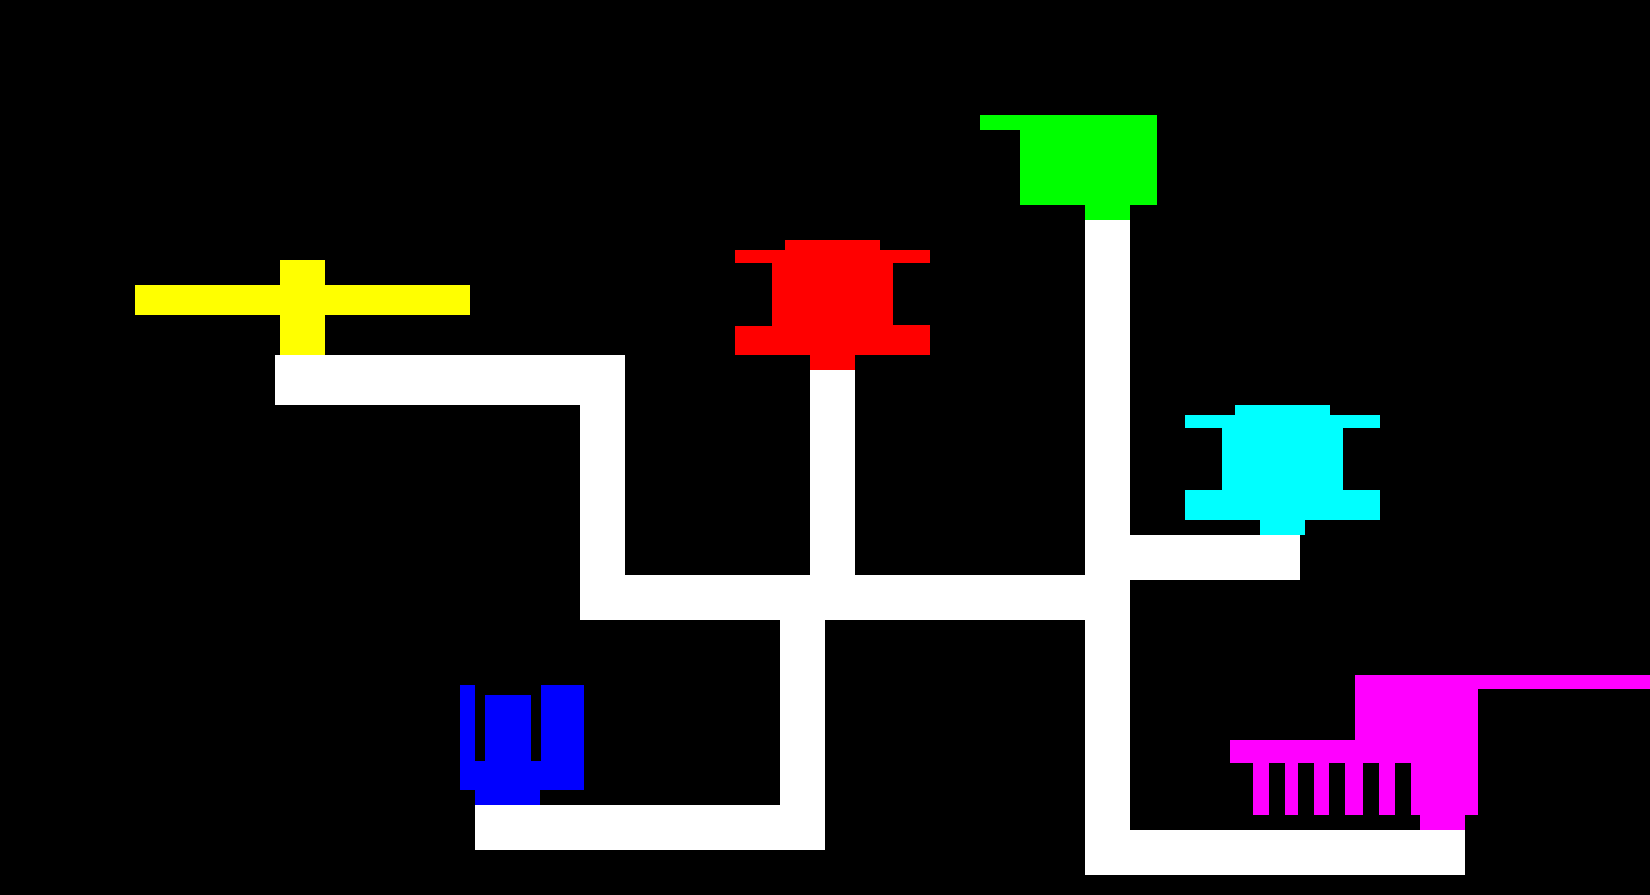
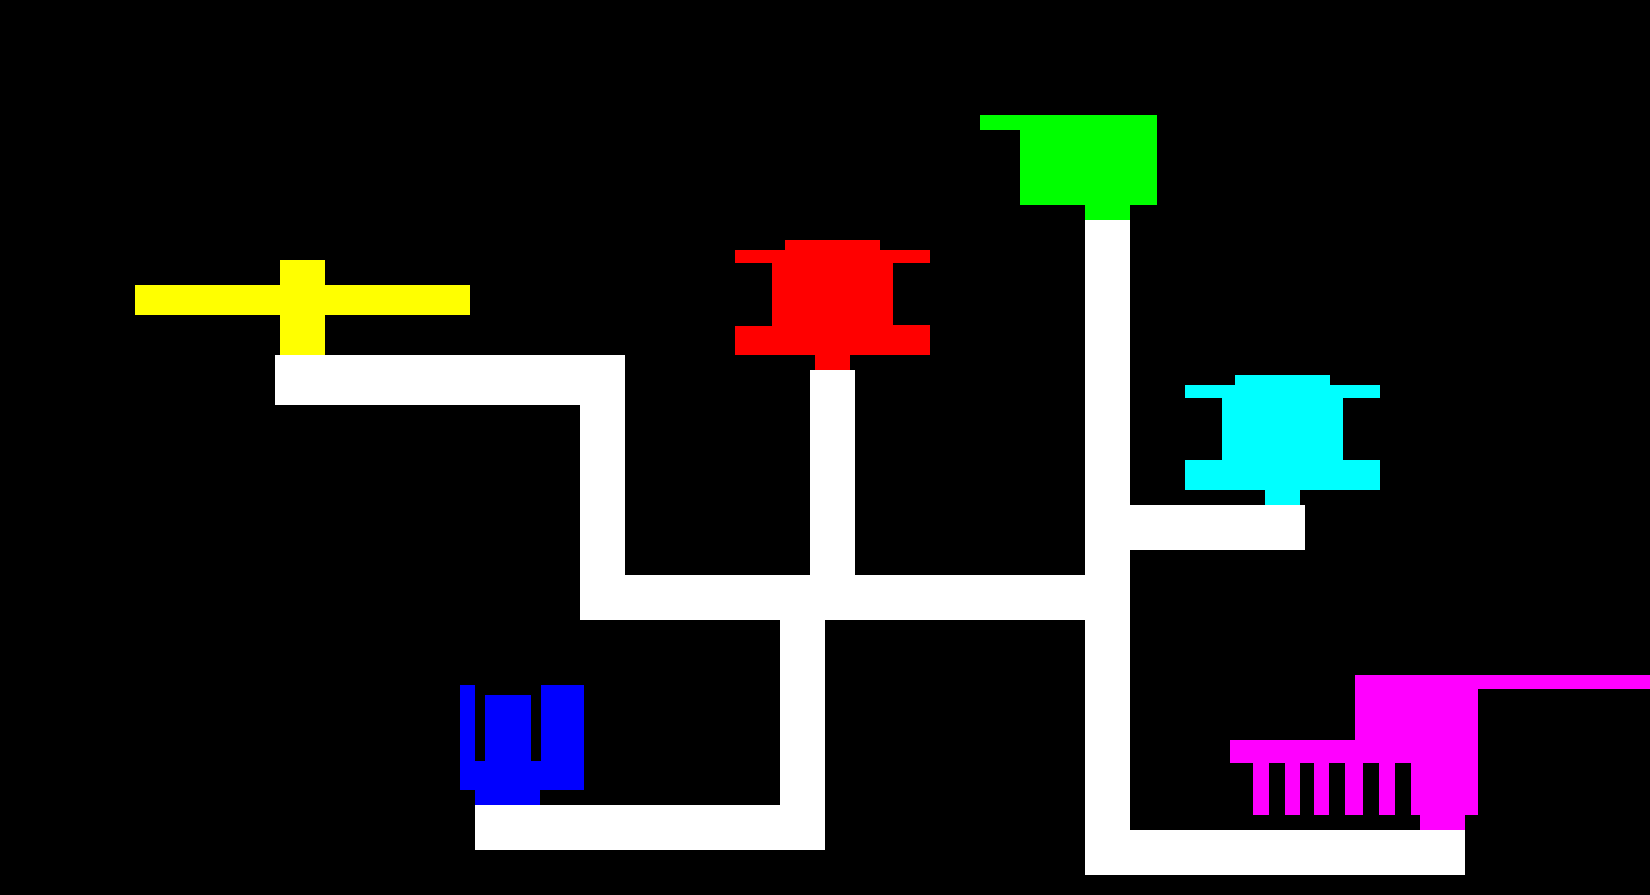
Collision refined

Changed region(s): [[0.68, 0.5128, 0.8345, 0.6637], [0.7109, 0.3922, 0.8345, 0.4827]]

diff --git a/main-game-core/src/screens/LevelOne.java b/main-game-core/src/screens/LevelOne.java
@@ -147,7 +147,7 @@ public class LevelOne extends Screen {
 		
 		//START OF INPUT FOR CHARACTER MOVEMENT
 		try {
-			if (Gdx.input.isKeyPressed(Keys.RIGHT) && (!collisionArr[(int)Math.floor(charY)][(int)Math.round(charX+2.5)].equals(java.awt.Color.BLACK) || !collisionArr[(int)Math.ceil(charY)][(int)Math.round(charX+2.5)].equals(java.awt.Color.BLACK))) {
+			if (Gdx.input.isKeyPressed(Keys.RIGHT) && (!collisionArr[(int)Math.floor(charY)][(int)Math.round(charX+7.5)].equals(java.awt.Color.BLACK) || !collisionArr[(int)Math.ceil(charY)][(int)Math.round(charX+7.5)].equals(java.awt.Color.BLACK))) {
 				xCoord -= JTCM.WIDTH*5.0/map.getWidth()/2*5;
 				charX += 2.5;
 			}
@@ -155,7 +155,7 @@ public class LevelOne extends Screen {
 				xCoord += JTCM.WIDTH*5.0/map.getWidth()/2*5;
 				charX -= 2.5;
 			}
-			if (Gdx.input.isKeyPressed(Keys.UP) && (!collisionArr[(int)Math.ceil(charY-2.5)][(int)Math.round(charX)].equals(java.awt.Color.BLACK) && !collisionArr[(int)Math.floor(charY)][(int)Math.round(charX-7.5)].equals(java.awt.Color.BLACK))) {
+			if (Gdx.input.isKeyPressed(Keys.UP) && (!collisionArr[(int)Math.ceil(charY-5)][(int)Math.round(charX+5)].equals(java.awt.Color.BLACK) && !collisionArr[(int)Math.floor(charY)][(int)Math.round(charX-7.5)].equals(java.awt.Color.BLACK))) {
 				yCoord -= JTCM.HEIGHT*5.0/map.getHeight()/2*5;
 				charY -= 2.5;
 			}
@@ -323,7 +323,7 @@ public class LevelOne extends Screen {
 		if(alive) {
 			
 			//Check if player is indoors
-			if ((!collisionArr[(int)Math.floor(charY)][(int)Math.round(charX)].equals(java.awt.Color.WHITE) && !collisionArr[(int)Math.floor(charY)][(int)Math.round(charX)].equals(java.awt.Color.BLACK))|| (!collisionArr[(int)Math.ceil(charY)][(int)Math.round(charX-7.5)].equals(java.awt.Color.WHITE)&&!collisionArr[(int)Math.ceil(charY)][(int)Math.round(charX-7.5)].equals(java.awt.Color.BLACK)))
+			if ((!collisionArr[(int)Math.floor(charY)][(int)Math.round(charX)].equals(java.awt.Color.WHITE) && !collisionArr[(int)Math.floor(charY)][(int)Math.round(charX)].equals(java.awt.Color.BLACK)) || (!collisionArr[(int)Math.ceil(charY)][(int)Math.round(charX/*-7.5*/)].equals(java.awt.Color.WHITE)&&!collisionArr[(int)Math.ceil(charY)][(int)Math.round(charX/*-7.5*/)].equals(java.awt.Color.BLACK)))
 			{
 				//Indoor Map
 				s.draw(indoorMap, Math.round(xCoord), Math.round(yCoord), JTCM.WIDTH*5, JTCM.HEIGHT*5);
